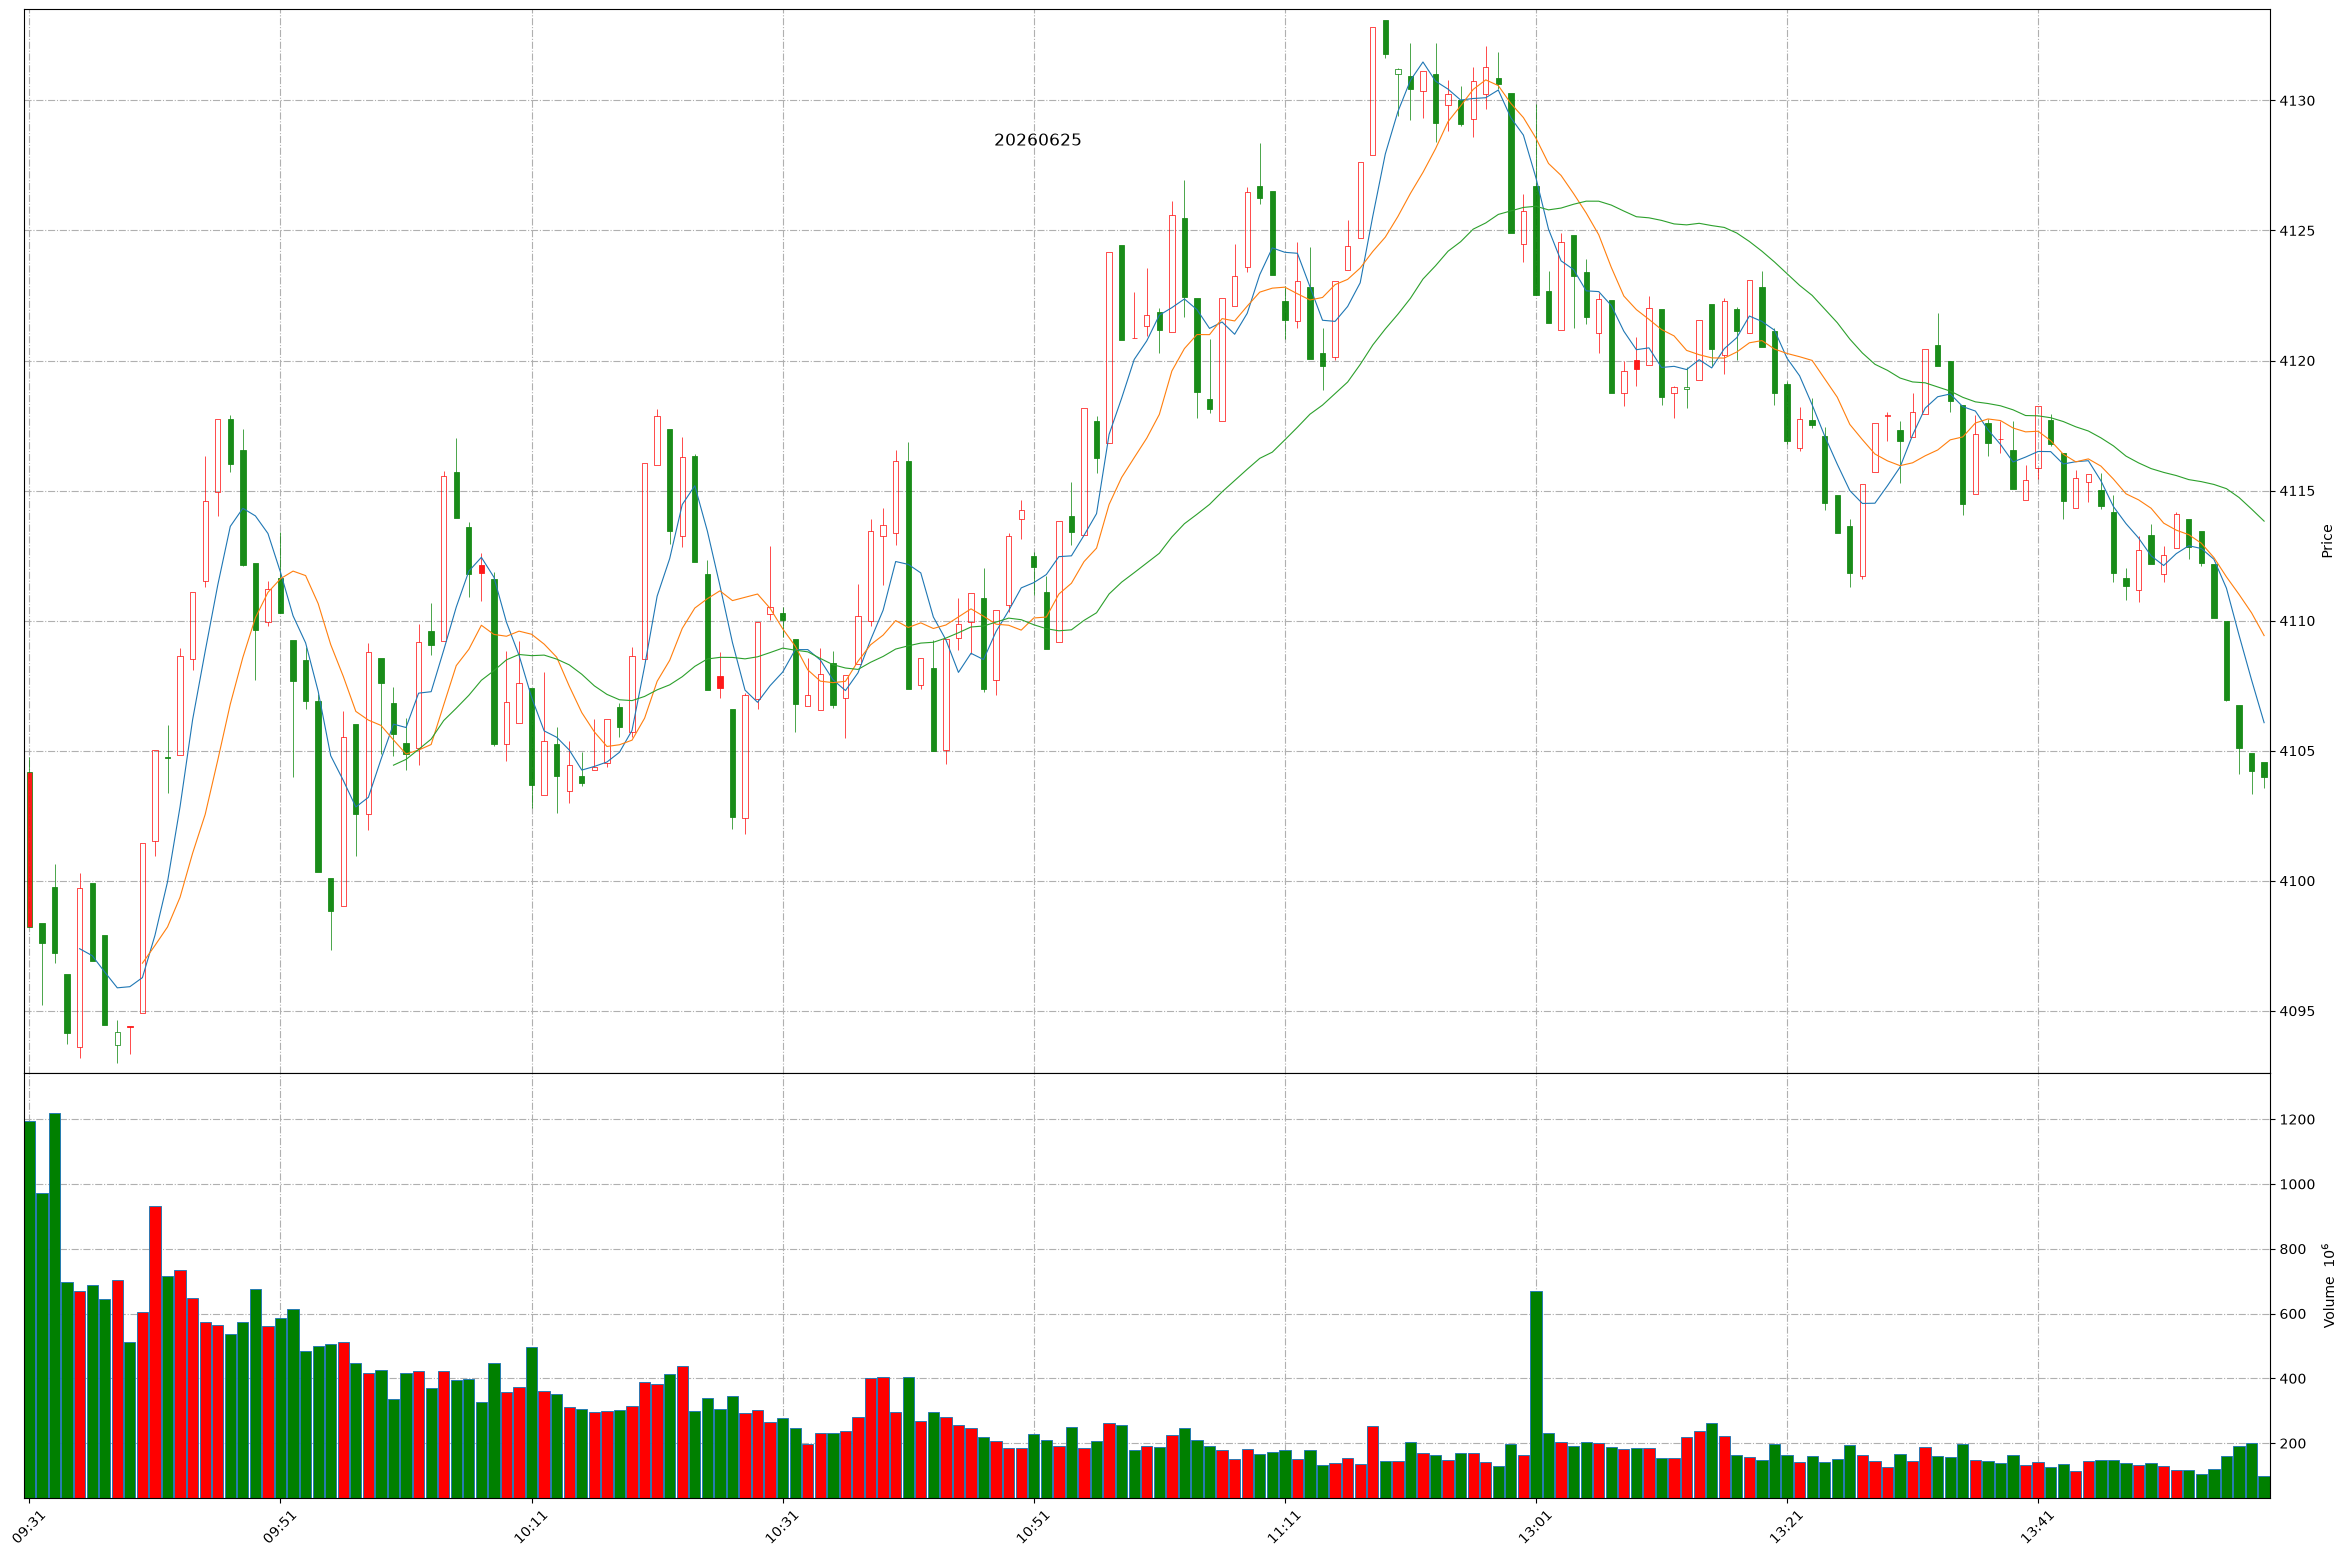
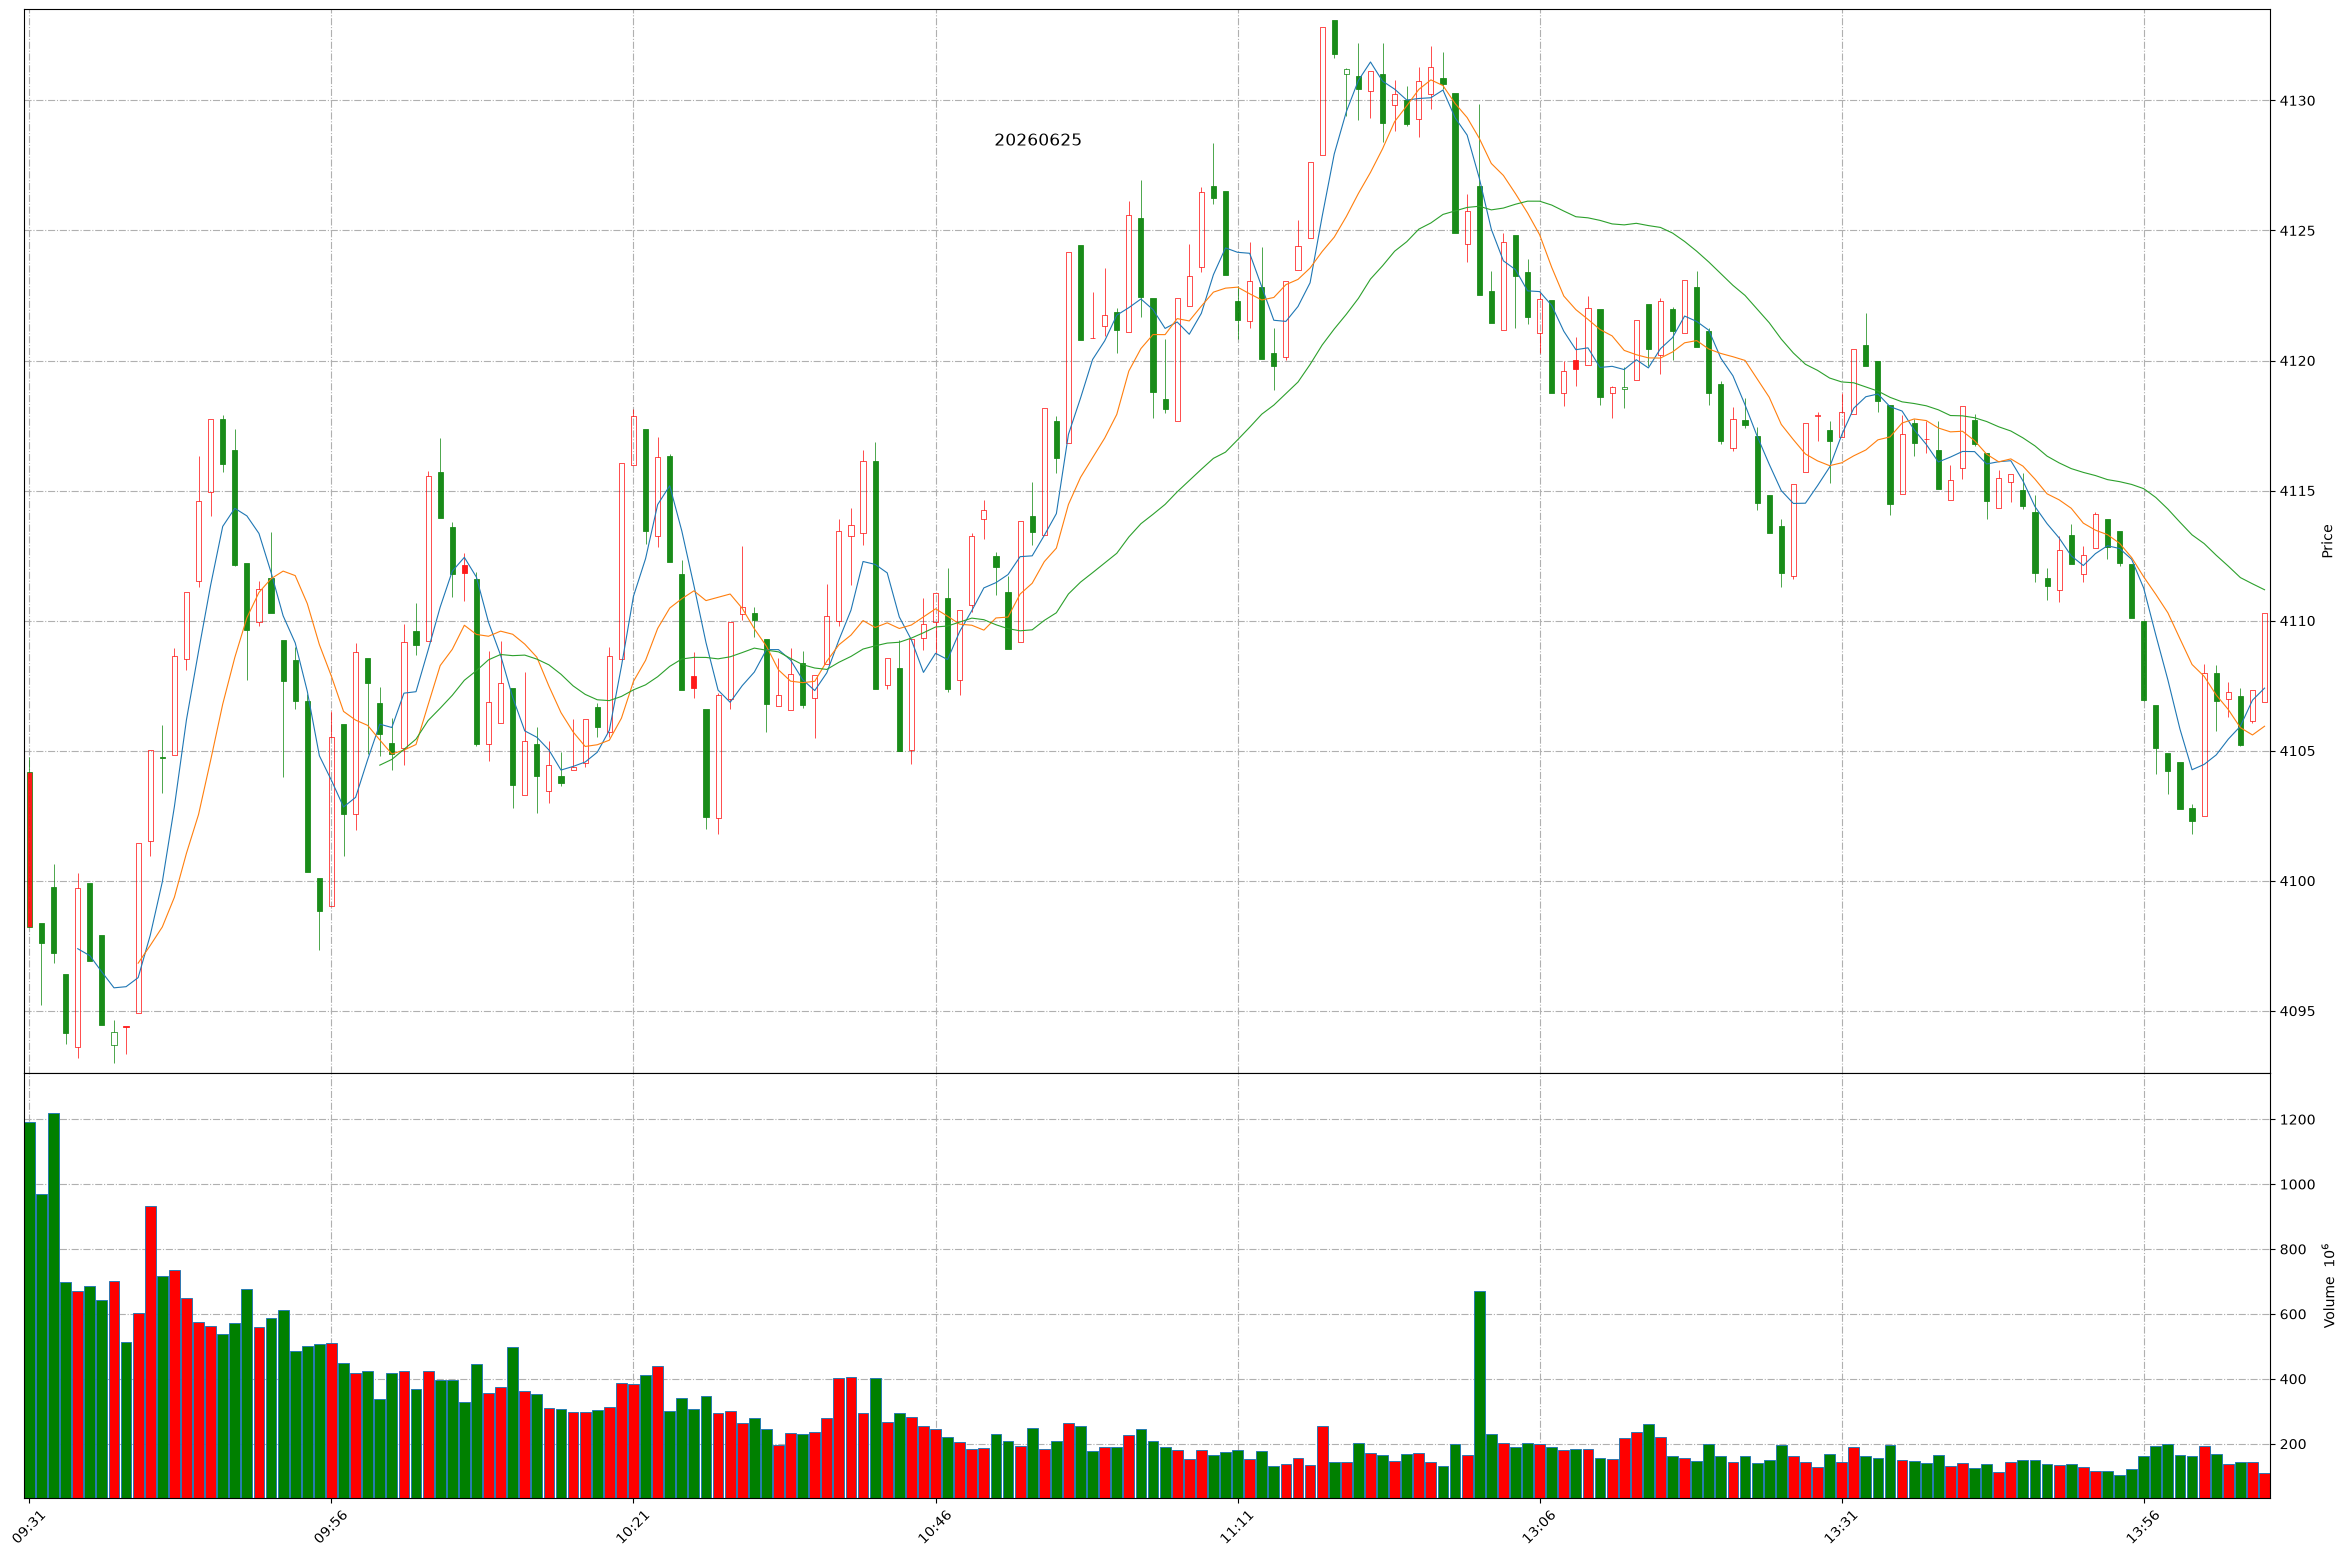
Github action update at 2026-06-25 14:06:09.

Changed region(s): [[0.0622, 0.0, 0.9642, 0.5857], [0.0311, 0.7707, 0.9642, 0.9865], [0.0311, 0.4624, 0.0933, 0.6782]]

diff --git a/README.md b/README.md
@@ -1,11 +1,11 @@
 
 # Daily-A-share-market-quotes 每日 A 股指数（5min 更新）- 20260625
 
-### 上证指数 20260625 13:58
+### 上证指数 20260625 14:6
 ![](./fig/2026/6/20260625-sh000001.png)
 
-### 深证成指 20260625 13:58
+### 深证成指 20260625 14:6
 ![](./fig/2026/6/20260625-sz399001.png)
 
-### 北证50 20260625 13:58
+### 北证50 20260625 14:6
 ![](./fig/2026/6/20260625-bj899050.png)
